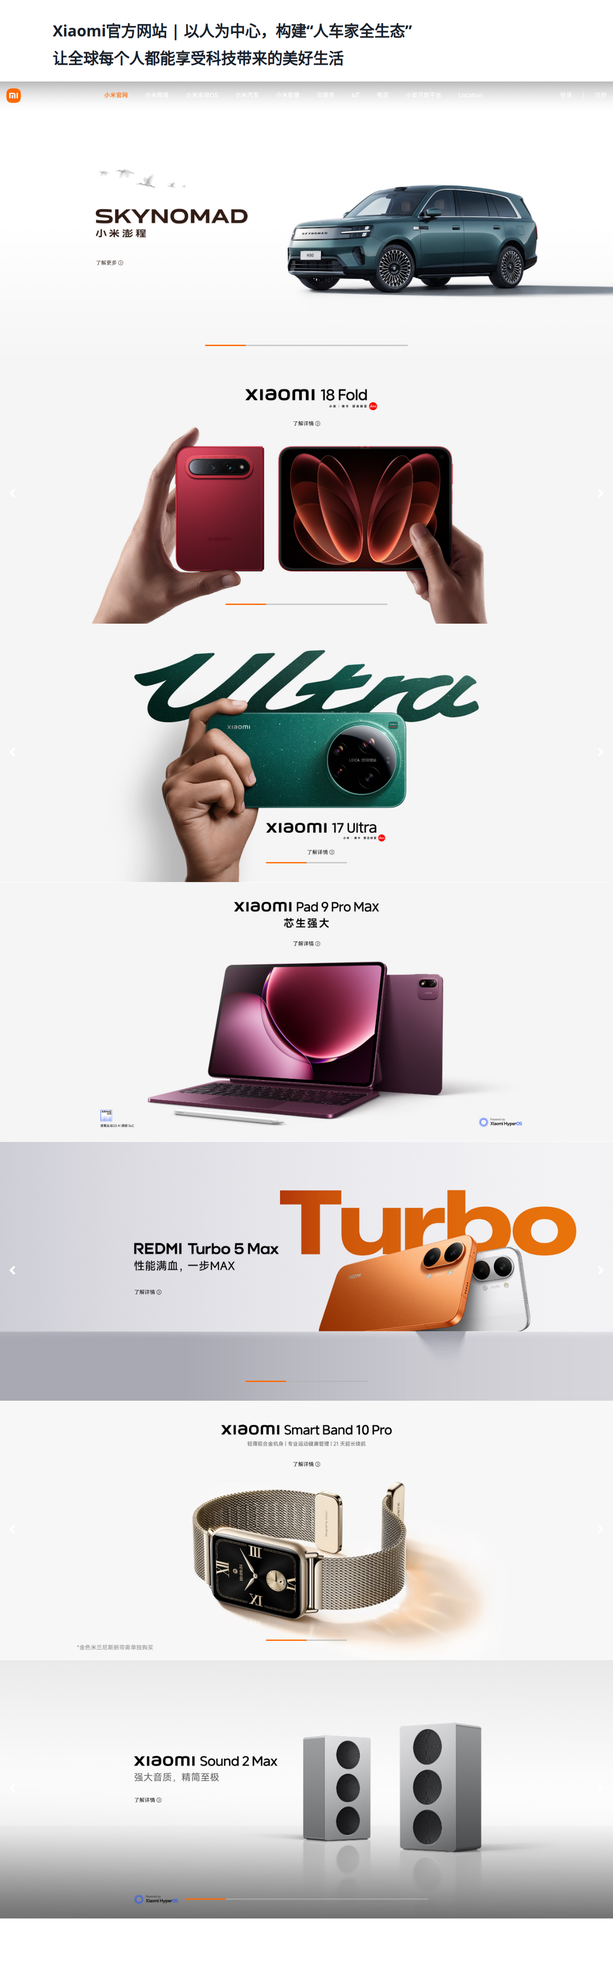
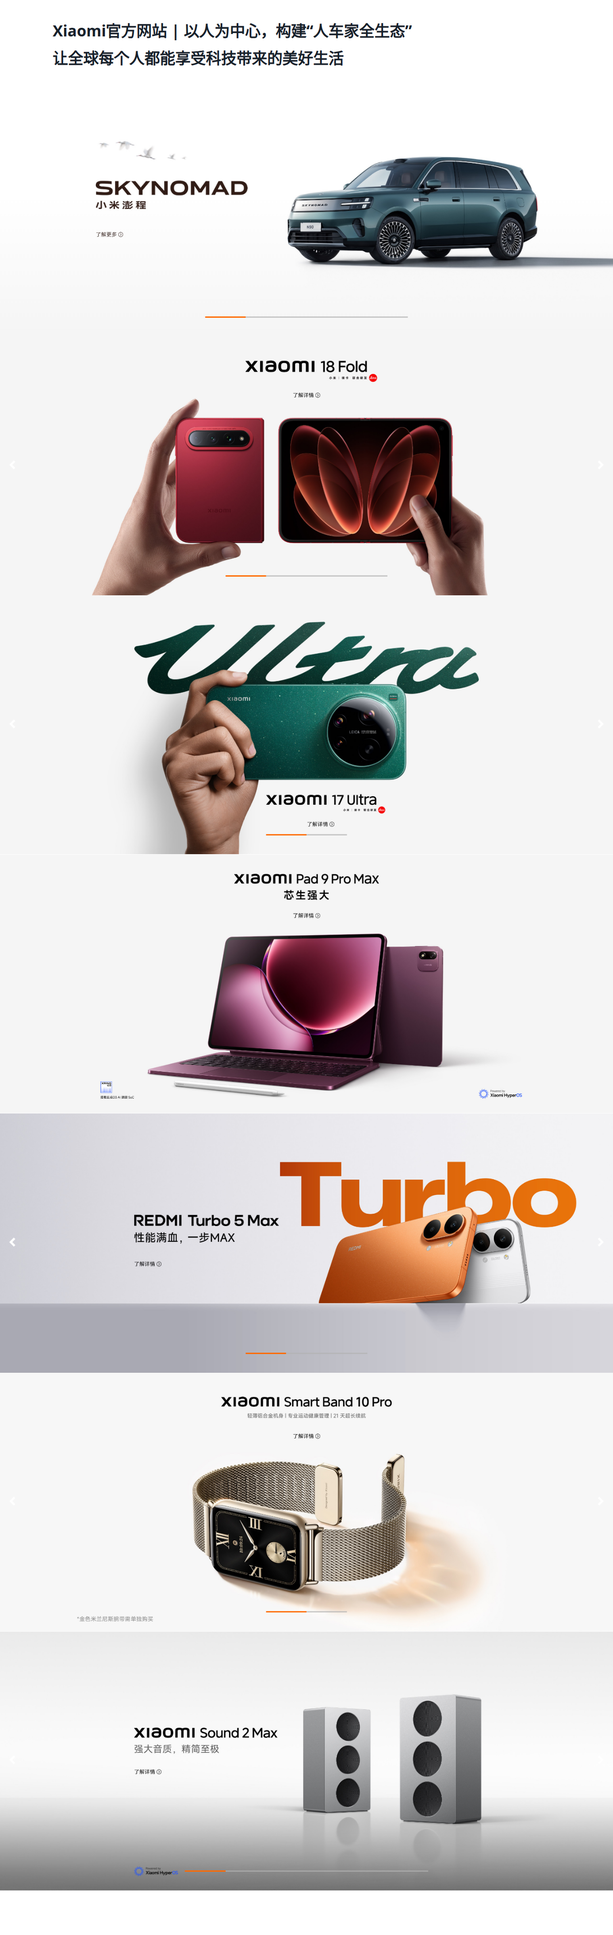
round 37b accepted: the band was band 1, and a price in the model had no capture backing
The worker proved which asset carried the header by sliding-window pixel diffing
(band1 ≡ y0-664, and its top 50px is the site head) and corrected the review's
'band 2' reading, then recropped from y=66. Parent measured the result: 1440x598
with zero orange pixels in the top 60 rows.

The more important find is a data-integrity one. The aliyun cards carried prices
(1238, 1385) that the captured price rows do not say — the source says 1438.68 and
3459.90. Fidelity stayed 1.00 throughout, because the metric checks model facts
against the render, never against the capture. F-025 has been enforced by process
discipline alone, with no gate behind it. F-078 records that hole and the plan: a
capture-vs-model integrity audit as gate 9. The prices are corrected meanwhile.

diff --git a/m1/curated/renders/index.html b/m1/curated/renders/index.html
@@ -1,42 +1,42 @@
-<!doctype html><meta charset=utf-8><title>AutoFE M3 curated gallery</title><style>body{font:14px/1.5 system-ui,"PingFang SC",sans-serif;margin:24px;background:#fafbfc;color:#17212b}h1{font-size:1.3em}.grid{display:grid;grid-template-columns:repeat(auto-fill,minmax(260px,1fr));gap:16px;margin-top:16px}.card{margin:0;background:#fff;border:1px solid #e6eaf0;border-radius:10px;overflow:hidden}.card img{width:100%;height:220px;object-fit:cover;object-position:top;display:block;background:#fff}.card figcaption{padding:8px 10px}.k{font-weight:600;font-size:.92em}.tier{float:right;font-size:.75em;color:#68788a;text-transform:uppercase}.m{color:#5b6a78;font-size:.82em;margin-top:3px}.missing{padding:40px;text-align:center;color:#98a4b2}</style><h1>AutoFE · M3 蓝图渲染画廊（42 页 · F-031 轴语义 · 版本 mup6qvio）</h1><p style="color:#5b6a78">每张缩略图点开看整页；下方为该页事实保真与源覆盖残余。原页截图见 corpus/&lt;site&gt;/&lt;page&gt;/full.png。</p><div class=grid><figure class="card"><a href="36kr-com-home.png?v=mup6qvio"><img src="36kr-com-home.png?v=mup6qvio" loading="lazy"></a><figcaption><span class="k">36kr-com/home</span><span class="tier">exemplar</span><div class="m">fidelity <b>1</b> (227/227) · coverage high 63 / med 0</div></figcaption></figure>
-<figure class="card"><a href="36kr-com-information-technology.png?v=mup6qvio"><img src="36kr-com-information-technology.png?v=mup6qvio" loading="lazy"></a><figcaption><span class="k">36kr-com/information-technology</span><span class="tier">exemplar</span><div class="m">fidelity <b>1</b> (145/145) · coverage high 36 / med 0</div></figcaption></figure>
-<figure class="card"><a href="36kr-com-search-ai.png?v=mup6qvio"><img src="36kr-com-search-ai.png?v=mup6qvio" loading="lazy"></a><figcaption><span class="k">36kr-com/search-ai</span><span class="tier">exemplar</span><div class="m">fidelity <b>1</b> (74/74) · coverage high 32 / med 0</div></figcaption></figure>
-<figure class="card"><a href="36kr-com-search-viz.png?v=mup6qvio"><img src="36kr-com-search-viz.png?v=mup6qvio" loading="lazy"></a><figcaption><span class="k">36kr-com/search-viz</span><span class="tier">exemplar</span><div class="m">fidelity <b>1</b> (74/74) · coverage high 33 / med 0</div></figcaption></figure>
-<figure class="card"><a href="airbnb-com-room-28871.png?v=mup6qvio"><img src="airbnb-com-room-28871.png?v=mup6qvio" loading="lazy"></a><figcaption><span class="k">airbnb-com/room-28871</span><span class="tier">exemplar</span><div class="m">fidelity <b>1</b> (75/75) · coverage high 30 / med 10</div></figcaption></figure>
-<figure class="card"><a href="aliyun-com-home.png?v=mup6qvio"><img src="aliyun-com-home.png?v=mup6qvio" loading="lazy"></a><figcaption><span class="k">aliyun-com/home</span><span class="tier">exemplar</span><div class="m">fidelity <b>1</b> (177/177) · coverage high 67 / med 103</div></figcaption></figure>
-<figure class="card"><a href="aliyun-com-product-ecs.png?v=mup6qvio"><img src="aliyun-com-product-ecs.png?v=mup6qvio" loading="lazy"></a><figcaption><span class="k">aliyun-com/product-ecs</span><span class="tier">exemplar</span><div class="m">fidelity <b>1</b> (38/38) · coverage high 76 / med 155</div></figcaption></figure>
-<figure class="card"><a href="apple-com-cn-iphone-17.png?v=mup6qvio"><img src="apple-com-cn-iphone-17.png?v=mup6qvio" loading="lazy"></a><figcaption><span class="k">apple-com-cn/iphone-17</span><span class="tier">exemplar</span><div class="m">fidelity <b>1</b> (173/173) · coverage high 92 / med 40</div></figcaption></figure>
-<figure class="card"><a href="apple-com-home.png?v=mup6qvio"><img src="apple-com-home.png?v=mup6qvio" loading="lazy"></a><figcaption><span class="k">apple-com/home</span><span class="tier">exemplar</span><div class="m">fidelity <b>1</b> (64/64) · coverage high 72 / med 42</div></figcaption></figure>
-<figure class="card"><a href="apple-com-ipad-air.png?v=mup6qvio"><img src="apple-com-ipad-air.png?v=mup6qvio" loading="lazy"></a><figcaption><span class="k">apple-com/ipad-air</span><span class="tier">exemplar</span><div class="m">fidelity <b>1</b> (115/115) · coverage high 57 / med 38</div></figcaption></figure>
-<figure class="card"><a href="apple-com-iphone-16.png?v=mup6qvio"><img src="apple-com-iphone-16.png?v=mup6qvio" loading="lazy"></a><figcaption><span class="k">apple-com/iphone-16</span><span class="tier">exemplar</span><div class="m">fidelity <b>1</b> (122/122) · coverage high 78 / med 41</div></figcaption></figure>
-<figure class="card"><a href="apple-com-macbook-air.png?v=mup6qvio"><img src="apple-com-macbook-air.png?v=mup6qvio" loading="lazy"></a><figcaption><span class="k">apple-com/macbook-air</span><span class="tier">exemplar</span><div class="m">fidelity <b>1</b> (167/167) · coverage high 62 / med 41</div></figcaption></figure>
-<figure class="card"><a href="aws-amazon-ec2-on-demand.png?v=mup6qvio"><img src="aws-amazon-ec2-on-demand.png?v=mup6qvio" loading="lazy"></a><figcaption><span class="k">aws-amazon/ec2-on-demand</span><span class="tier">exemplar</span><div class="m">fidelity <b>1</b> (154/154) · coverage high 74 / med 17</div></figcaption></figure>
-<figure class="card"><a href="bilibili-com-home.png?v=mup6qvio"><img src="bilibili-com-home.png?v=mup6qvio" loading="lazy"></a><figcaption><span class="k">bilibili-com/home</span><span class="tier">exemplar</span><div class="m">fidelity <b>1</b> (58/58) · coverage high 25 / med 0</div></figcaption></figure>
-<figure class="card"><a href="bilibili-com-read-home.png?v=mup6qvio"><img src="bilibili-com-read-home.png?v=mup6qvio" loading="lazy"></a><figcaption><span class="k">bilibili-com/read-home</span><span class="tier">exemplar</span><div class="m">fidelity <b>1</b> (105/105) · coverage high 4 / med 0</div></figcaption></figure>
-<figure class="card"><a href="bilibili-com-video-bv1gj411x7h7.png?v=mup6qvio"><img src="bilibili-com-video-bv1gj411x7h7.png?v=mup6qvio" loading="lazy"></a><figcaption><span class="k">bilibili-com/video-bv1gj411x7h7</span><span class="tier">exemplar</span><div class="m">fidelity <b>1</b> (154/154) · coverage high 17 / med 0</div></figcaption></figure>
-<figure class="card"><a href="github-com-login.png?v=mup6qvio"><img src="github-com-login.png?v=mup6qvio" loading="lazy"></a><figcaption><span class="k">github-com/login</span><span class="tier">exemplar</span><div class="m">fidelity <b>1</b> (9/9) · coverage high 0 / med 0</div></figcaption></figure>
-<figure class="card"><a href="gov-uk-ni-rates-letters.png?v=mup6qvio"><img src="gov-uk-ni-rates-letters.png?v=mup6qvio" loading="lazy"></a><figcaption><span class="k">gov-uk/ni-rates-letters</span><span class="tier">exemplar</span><div class="m">fidelity <b>1</b> (147/147) · coverage high 34 / med 14</div></figcaption></figure>
-<figure class="card"><a href="gov-uk-register-birth-abroad.png?v=mup6qvio"><img src="gov-uk-register-birth-abroad.png?v=mup6qvio" loading="lazy"></a><figcaption><span class="k">gov-uk/register-birth-abroad</span><span class="tier">exemplar</span><div class="m">fidelity <b>1</b> (34/34) · coverage high 0 / med 5</div></figcaption></figure>
-<figure class="card"><a href="grafana-play-play-home.png?v=mup6qvio"><img src="grafana-play-play-home.png?v=mup6qvio" loading="lazy"></a><figcaption><span class="k">grafana-play/play-home</span><span class="tier">exemplar</span><div class="m">fidelity <b>1</b> (18/18) · coverage high 0 / med 0</div></figcaption></figure>
-<figure class="card"><a href="huawei-cn-consumer-phones.png?v=mup6qvio"><img src="huawei-cn-consumer-phones.png?v=mup6qvio" loading="lazy"></a><figcaption><span class="k">huawei-cn/consumer-phones</span><span class="tier">exemplar</span><div class="m">fidelity <b>1</b> (151/151) · coverage high 85 / med 0</div></figcaption></figure>
-<figure class="card"><a href="huawei-cn-home.png?v=mup6qvio"><img src="huawei-cn-home.png?v=mup6qvio" loading="lazy"></a><figcaption><span class="k">huawei-cn/home</span><span class="tier">exemplar</span><div class="m">fidelity <b>1</b> (29/29) · coverage high 7 / med 4</div></figcaption></figure>
-<figure class="card"><a href="huawei-cn-search-laptop.png?v=mup6qvio"><img src="huawei-cn-search-laptop.png?v=mup6qvio" loading="lazy"></a><figcaption><span class="k">huawei-cn/search-laptop</span><span class="tier">exemplar</span><div class="m">fidelity <b>1</b> (47/47) · coverage high 9 / med 3</div></figcaption></figure>
-<figure class="card"><a href="huawei-cn-search-phone.png?v=mup6qvio"><img src="huawei-cn-search-phone.png?v=mup6qvio" loading="lazy"></a><figcaption><span class="k">huawei-cn/search-phone</span><span class="tier">exemplar</span><div class="m">fidelity <b>1</b> (45/45) · coverage high 9 / med 3</div></figcaption></figure>
-<figure class="card"><a href="learn-microsoft-vm-sizes.png?v=mup6qvio"><img src="learn-microsoft-vm-sizes.png?v=mup6qvio" loading="lazy"></a><figcaption><span class="k">learn-microsoft/vm-sizes</span><span class="tier">exemplar</span><div class="m">fidelity <b>1</b> (196/196) · coverage high 11 / med 9</div></figcaption></figure>
-<figure class="card"><a href="linear-app-home.png?v=mup6qvio"><img src="linear-app-home.png?v=mup6qvio" loading="lazy"></a><figcaption><span class="k">linear-app/home</span><span class="tier">exemplar</span><div class="m">fidelity <b>1</b> (22/22) · coverage high 145 / med 5</div></figcaption></figure>
-<figure class="card"><a href="mi-com-home.png?v=mup6qvio"><img src="mi-com-home.png?v=mup6qvio" loading="lazy"></a><figcaption><span class="k">mi-com/home</span><span class="tier">exemplar</span><div class="m">fidelity <b>1</b> (2/2) · coverage high 11 / med 0</div></figcaption></figure>
-<figure class="card"><a href="mi-com-product-detail-mi15.png?v=mup6qvio"><img src="mi-com-product-detail-mi15.png?v=mup6qvio" loading="lazy"></a><figcaption><span class="k">mi-com/product-detail-mi15</span><span class="tier">exemplar</span><div class="m">fidelity <b>1</b> (21/21) · coverage high 18 / med 2</div></figcaption></figure>
-<figure class="card"><a href="mi-com-search-earbuds.png?v=mup6qvio"><img src="mi-com-search-earbuds.png?v=mup6qvio" loading="lazy"></a><figcaption><span class="k">mi-com/search-earbuds</span><span class="tier">exemplar</span><div class="m">fidelity <b>1</b> (122/122) · coverage high 64 / med 0</div></figcaption></figure>
-<figure class="card"><a href="mi-com-search-phone.png?v=mup6qvio"><img src="mi-com-search-phone.png?v=mup6qvio" loading="lazy"></a><figcaption><span class="k">mi-com/search-phone</span><span class="tier">exemplar</span><div class="m">fidelity <b>1</b> (92/92) · coverage high 63 / med 0</div></figcaption></figure>
-<figure class="card"><a href="mi-com-shop-category-list.png?v=mup6qvio"><img src="mi-com-shop-category-list.png?v=mup6qvio" loading="lazy"></a><figcaption><span class="k">mi-com/shop-category-list</span><span class="tier">exemplar</span><div class="m">fidelity <b>1</b> (161/161) · coverage high 13 / med 9</div></figcaption></figure>
-<figure class="card"><a href="sspai-com-home.png?v=mup6qvio"><img src="sspai-com-home.png?v=mup6qvio" loading="lazy"></a><figcaption><span class="k">sspai-com/home</span><span class="tier">exemplar</span><div class="m">fidelity <b>1</b> (86/86) · coverage high 14 / med 0</div></figcaption></figure>
-<figure class="card"><a href="sspai-com-matrix.png?v=mup6qvio"><img src="sspai-com-matrix.png?v=mup6qvio" loading="lazy"></a><figcaption><span class="k">sspai-com/matrix</span><span class="tier">exemplar</span><div class="m">fidelity <b>1</b> (83/83) · coverage high 15 / med 0</div></figcaption></figure>
-<figure class="card"><a href="sspai-com-post-102392.png?v=mup6qvio"><img src="sspai-com-post-102392.png?v=mup6qvio" loading="lazy"></a><figcaption><span class="k">sspai-com/post-102392</span><span class="tier">exemplar</span><div class="m">fidelity <b>1</b> (18/18) · coverage high 9 / med 0</div></figcaption></figure>
-<figure class="card"><a href="sspai-com-post-114699.png?v=mup6qvio"><img src="sspai-com-post-114699.png?v=mup6qvio" loading="lazy"></a><figcaption><span class="k">sspai-com/post-114699</span><span class="tier">exemplar</span><div class="m">fidelity <b>1</b> (55/55) · coverage high 19 / med 0</div></figcaption></figure>
-<figure class="card"><a href="sspai-com-post-114716.png?v=mup6qvio"><img src="sspai-com-post-114716.png?v=mup6qvio" loading="lazy"></a><figcaption><span class="k">sspai-com/post-114716</span><span class="tier">exemplar</span><div class="m">fidelity <b>1</b> (126/126) · coverage high 28 / med 0</div></figcaption></figure>
-<figure class="card"><a href="sspai-com-u-jtc092al.png?v=mup6qvio"><img src="sspai-com-u-jtc092al.png?v=mup6qvio" loading="lazy"></a><figcaption><span class="k">sspai-com/u-jtc092al</span><span class="tier">exemplar</span><div class="m">fidelity <b>1</b> (38/38) · coverage high 3 / med 0</div></figcaption></figure>
-<figure class="card"><a href="stripe-com-pricing.png?v=mup6qvio"><img src="stripe-com-pricing.png?v=mup6qvio" loading="lazy"></a><figcaption><span class="k">stripe-com/pricing</span><span class="tier">exemplar</span><div class="m">fidelity <b>1</b> (425/425) · coverage high 91 / med 4</div></figcaption></figure>
-<figure class="card"><a href="stripe-dashboard-login.png?v=mup6qvio"><img src="stripe-dashboard-login.png?v=mup6qvio" loading="lazy"></a><figcaption><span class="k">stripe-dashboard/login</span><span class="tier">exemplar</span><div class="m">fidelity <b>1</b> (11/11) · coverage high 0 / med 0</div></figcaption></figure>
-<figure class="card"><a href="stripe-docs-payments.png?v=mup6qvio"><img src="stripe-docs-payments.png?v=mup6qvio" loading="lazy"></a><figcaption><span class="k">stripe-docs/payments</span><span class="tier">exemplar</span><div class="m">fidelity <b>1</b> (62/62) · coverage high 0 / med 0</div></figcaption></figure>
-<figure class="card"><a href="taobao-com-home.png?v=mup6qvio"><img src="taobao-com-home.png?v=mup6qvio" loading="lazy"></a><figcaption><span class="k">taobao-com/home</span><span class="tier">exemplar</span><div class="m">fidelity <b>1</b> (136/136) · coverage high 13 / med 0</div></figcaption></figure>
-<figure class="card"><a href="xiaomi-account-login.png?v=mup6qvio"><img src="xiaomi-account-login.png?v=mup6qvio" loading="lazy"></a><figcaption><span class="k">xiaomi-account/login</span><span class="tier">exemplar</span><div class="m">fidelity <b>1</b> (15/15) · coverage high 1 / med 0</div></figcaption></figure></div>
+<!doctype html><meta charset=utf-8><title>AutoFE M3 curated gallery</title><style>body{font:14px/1.5 system-ui,"PingFang SC",sans-serif;margin:24px;background:#fafbfc;color:#17212b}h1{font-size:1.3em}.grid{display:grid;grid-template-columns:repeat(auto-fill,minmax(260px,1fr));gap:16px;margin-top:16px}.card{margin:0;background:#fff;border:1px solid #e6eaf0;border-radius:10px;overflow:hidden}.card img{width:100%;height:220px;object-fit:cover;object-position:top;display:block;background:#fff}.card figcaption{padding:8px 10px}.k{font-weight:600;font-size:.92em}.tier{float:right;font-size:.75em;color:#68788a;text-transform:uppercase}.m{color:#5b6a78;font-size:.82em;margin-top:3px}.missing{padding:40px;text-align:center;color:#98a4b2}</style><h1>AutoFE · M3 蓝图渲染画廊（42 页 · F-031 轴语义 · 版本 mup729hi）</h1><p style="color:#5b6a78">每张缩略图点开看整页；下方为该页事实保真与源覆盖残余。原页截图见 corpus/&lt;site&gt;/&lt;page&gt;/full.png。</p><div class=grid><figure class="card"><a href="36kr-com-home.png?v=mup729hi"><img src="36kr-com-home.png?v=mup729hi" loading="lazy"></a><figcaption><span class="k">36kr-com/home</span><span class="tier">exemplar</span><div class="m">fidelity <b>1</b> (227/227) · coverage high 63 / med 0</div></figcaption></figure>
+<figure class="card"><a href="36kr-com-information-technology.png?v=mup729hi"><img src="36kr-com-information-technology.png?v=mup729hi" loading="lazy"></a><figcaption><span class="k">36kr-com/information-technology</span><span class="tier">exemplar</span><div class="m">fidelity <b>1</b> (145/145) · coverage high 36 / med 0</div></figcaption></figure>
+<figure class="card"><a href="36kr-com-search-ai.png?v=mup729hi"><img src="36kr-com-search-ai.png?v=mup729hi" loading="lazy"></a><figcaption><span class="k">36kr-com/search-ai</span><span class="tier">exemplar</span><div class="m">fidelity <b>1</b> (74/74) · coverage high 32 / med 0</div></figcaption></figure>
+<figure class="card"><a href="36kr-com-search-viz.png?v=mup729hi"><img src="36kr-com-search-viz.png?v=mup729hi" loading="lazy"></a><figcaption><span class="k">36kr-com/search-viz</span><span class="tier">exemplar</span><div class="m">fidelity <b>1</b> (74/74) · coverage high 33 / med 0</div></figcaption></figure>
+<figure class="card"><a href="airbnb-com-room-28871.png?v=mup729hi"><img src="airbnb-com-room-28871.png?v=mup729hi" loading="lazy"></a><figcaption><span class="k">airbnb-com/room-28871</span><span class="tier">exemplar</span><div class="m">fidelity <b>1</b> (75/75) · coverage high 30 / med 10</div></figcaption></figure>
+<figure class="card"><a href="aliyun-com-home.png?v=mup729hi"><img src="aliyun-com-home.png?v=mup729hi" loading="lazy"></a><figcaption><span class="k">aliyun-com/home</span><span class="tier">exemplar</span><div class="m">fidelity <b>1</b> (177/177) · coverage high 67 / med 103</div></figcaption></figure>
+<figure class="card"><a href="aliyun-com-product-ecs.png?v=mup729hi"><img src="aliyun-com-product-ecs.png?v=mup729hi" loading="lazy"></a><figcaption><span class="k">aliyun-com/product-ecs</span><span class="tier">exemplar</span><div class="m">fidelity <b>1</b> (38/38) · coverage high 76 / med 155</div></figcaption></figure>
+<figure class="card"><a href="apple-com-cn-iphone-17.png?v=mup729hi"><img src="apple-com-cn-iphone-17.png?v=mup729hi" loading="lazy"></a><figcaption><span class="k">apple-com-cn/iphone-17</span><span class="tier">exemplar</span><div class="m">fidelity <b>1</b> (173/173) · coverage high 92 / med 40</div></figcaption></figure>
+<figure class="card"><a href="apple-com-home.png?v=mup729hi"><img src="apple-com-home.png?v=mup729hi" loading="lazy"></a><figcaption><span class="k">apple-com/home</span><span class="tier">exemplar</span><div class="m">fidelity <b>1</b> (64/64) · coverage high 72 / med 42</div></figcaption></figure>
+<figure class="card"><a href="apple-com-ipad-air.png?v=mup729hi"><img src="apple-com-ipad-air.png?v=mup729hi" loading="lazy"></a><figcaption><span class="k">apple-com/ipad-air</span><span class="tier">exemplar</span><div class="m">fidelity <b>1</b> (115/115) · coverage high 57 / med 38</div></figcaption></figure>
+<figure class="card"><a href="apple-com-iphone-16.png?v=mup729hi"><img src="apple-com-iphone-16.png?v=mup729hi" loading="lazy"></a><figcaption><span class="k">apple-com/iphone-16</span><span class="tier">exemplar</span><div class="m">fidelity <b>1</b> (122/122) · coverage high 78 / med 41</div></figcaption></figure>
+<figure class="card"><a href="apple-com-macbook-air.png?v=mup729hi"><img src="apple-com-macbook-air.png?v=mup729hi" loading="lazy"></a><figcaption><span class="k">apple-com/macbook-air</span><span class="tier">exemplar</span><div class="m">fidelity <b>1</b> (167/167) · coverage high 62 / med 41</div></figcaption></figure>
+<figure class="card"><a href="aws-amazon-ec2-on-demand.png?v=mup729hi"><img src="aws-amazon-ec2-on-demand.png?v=mup729hi" loading="lazy"></a><figcaption><span class="k">aws-amazon/ec2-on-demand</span><span class="tier">exemplar</span><div class="m">fidelity <b>1</b> (154/154) · coverage high 74 / med 17</div></figcaption></figure>
+<figure class="card"><a href="bilibili-com-home.png?v=mup729hi"><img src="bilibili-com-home.png?v=mup729hi" loading="lazy"></a><figcaption><span class="k">bilibili-com/home</span><span class="tier">exemplar</span><div class="m">fidelity <b>1</b> (58/58) · coverage high 25 / med 0</div></figcaption></figure>
+<figure class="card"><a href="bilibili-com-read-home.png?v=mup729hi"><img src="bilibili-com-read-home.png?v=mup729hi" loading="lazy"></a><figcaption><span class="k">bilibili-com/read-home</span><span class="tier">exemplar</span><div class="m">fidelity <b>1</b> (105/105) · coverage high 4 / med 0</div></figcaption></figure>
+<figure class="card"><a href="bilibili-com-video-bv1gj411x7h7.png?v=mup729hi"><img src="bilibili-com-video-bv1gj411x7h7.png?v=mup729hi" loading="lazy"></a><figcaption><span class="k">bilibili-com/video-bv1gj411x7h7</span><span class="tier">exemplar</span><div class="m">fidelity <b>1</b> (154/154) · coverage high 17 / med 0</div></figcaption></figure>
+<figure class="card"><a href="github-com-login.png?v=mup729hi"><img src="github-com-login.png?v=mup729hi" loading="lazy"></a><figcaption><span class="k">github-com/login</span><span class="tier">exemplar</span><div class="m">fidelity <b>1</b> (9/9) · coverage high 0 / med 0</div></figcaption></figure>
+<figure class="card"><a href="gov-uk-ni-rates-letters.png?v=mup729hi"><img src="gov-uk-ni-rates-letters.png?v=mup729hi" loading="lazy"></a><figcaption><span class="k">gov-uk/ni-rates-letters</span><span class="tier">exemplar</span><div class="m">fidelity <b>1</b> (147/147) · coverage high 34 / med 14</div></figcaption></figure>
+<figure class="card"><a href="gov-uk-register-birth-abroad.png?v=mup729hi"><img src="gov-uk-register-birth-abroad.png?v=mup729hi" loading="lazy"></a><figcaption><span class="k">gov-uk/register-birth-abroad</span><span class="tier">exemplar</span><div class="m">fidelity <b>1</b> (34/34) · coverage high 0 / med 5</div></figcaption></figure>
+<figure class="card"><a href="grafana-play-play-home.png?v=mup729hi"><img src="grafana-play-play-home.png?v=mup729hi" loading="lazy"></a><figcaption><span class="k">grafana-play/play-home</span><span class="tier">exemplar</span><div class="m">fidelity <b>1</b> (18/18) · coverage high 0 / med 0</div></figcaption></figure>
+<figure class="card"><a href="huawei-cn-consumer-phones.png?v=mup729hi"><img src="huawei-cn-consumer-phones.png?v=mup729hi" loading="lazy"></a><figcaption><span class="k">huawei-cn/consumer-phones</span><span class="tier">exemplar</span><div class="m">fidelity <b>1</b> (151/151) · coverage high 85 / med 0</div></figcaption></figure>
+<figure class="card"><a href="huawei-cn-home.png?v=mup729hi"><img src="huawei-cn-home.png?v=mup729hi" loading="lazy"></a><figcaption><span class="k">huawei-cn/home</span><span class="tier">exemplar</span><div class="m">fidelity <b>1</b> (29/29) · coverage high 7 / med 4</div></figcaption></figure>
+<figure class="card"><a href="huawei-cn-search-laptop.png?v=mup729hi"><img src="huawei-cn-search-laptop.png?v=mup729hi" loading="lazy"></a><figcaption><span class="k">huawei-cn/search-laptop</span><span class="tier">exemplar</span><div class="m">fidelity <b>1</b> (47/47) · coverage high 9 / med 3</div></figcaption></figure>
+<figure class="card"><a href="huawei-cn-search-phone.png?v=mup729hi"><img src="huawei-cn-search-phone.png?v=mup729hi" loading="lazy"></a><figcaption><span class="k">huawei-cn/search-phone</span><span class="tier">exemplar</span><div class="m">fidelity <b>1</b> (45/45) · coverage high 9 / med 3</div></figcaption></figure>
+<figure class="card"><a href="learn-microsoft-vm-sizes.png?v=mup729hi"><img src="learn-microsoft-vm-sizes.png?v=mup729hi" loading="lazy"></a><figcaption><span class="k">learn-microsoft/vm-sizes</span><span class="tier">exemplar</span><div class="m">fidelity <b>1</b> (196/196) · coverage high 11 / med 9</div></figcaption></figure>
+<figure class="card"><a href="linear-app-home.png?v=mup729hi"><img src="linear-app-home.png?v=mup729hi" loading="lazy"></a><figcaption><span class="k">linear-app/home</span><span class="tier">exemplar</span><div class="m">fidelity <b>1</b> (22/22) · coverage high 145 / med 5</div></figcaption></figure>
+<figure class="card"><a href="mi-com-home.png?v=mup729hi"><img src="mi-com-home.png?v=mup729hi" loading="lazy"></a><figcaption><span class="k">mi-com/home</span><span class="tier">exemplar</span><div class="m">fidelity <b>1</b> (2/2) · coverage high 11 / med 0</div></figcaption></figure>
+<figure class="card"><a href="mi-com-product-detail-mi15.png?v=mup729hi"><img src="mi-com-product-detail-mi15.png?v=mup729hi" loading="lazy"></a><figcaption><span class="k">mi-com/product-detail-mi15</span><span class="tier">exemplar</span><div class="m">fidelity <b>1</b> (21/21) · coverage high 18 / med 2</div></figcaption></figure>
+<figure class="card"><a href="mi-com-search-earbuds.png?v=mup729hi"><img src="mi-com-search-earbuds.png?v=mup729hi" loading="lazy"></a><figcaption><span class="k">mi-com/search-earbuds</span><span class="tier">exemplar</span><div class="m">fidelity <b>1</b> (122/122) · coverage high 64 / med 0</div></figcaption></figure>
+<figure class="card"><a href="mi-com-search-phone.png?v=mup729hi"><img src="mi-com-search-phone.png?v=mup729hi" loading="lazy"></a><figcaption><span class="k">mi-com/search-phone</span><span class="tier">exemplar</span><div class="m">fidelity <b>1</b> (92/92) · coverage high 63 / med 0</div></figcaption></figure>
+<figure class="card"><a href="mi-com-shop-category-list.png?v=mup729hi"><img src="mi-com-shop-category-list.png?v=mup729hi" loading="lazy"></a><figcaption><span class="k">mi-com/shop-category-list</span><span class="tier">exemplar</span><div class="m">fidelity <b>1</b> (161/161) · coverage high 13 / med 9</div></figcaption></figure>
+<figure class="card"><a href="sspai-com-home.png?v=mup729hi"><img src="sspai-com-home.png?v=mup729hi" loading="lazy"></a><figcaption><span class="k">sspai-com/home</span><span class="tier">exemplar</span><div class="m">fidelity <b>1</b> (86/86) · coverage high 14 / med 0</div></figcaption></figure>
+<figure class="card"><a href="sspai-com-matrix.png?v=mup729hi"><img src="sspai-com-matrix.png?v=mup729hi" loading="lazy"></a><figcaption><span class="k">sspai-com/matrix</span><span class="tier">exemplar</span><div class="m">fidelity <b>1</b> (83/83) · coverage high 15 / med 0</div></figcaption></figure>
+<figure class="card"><a href="sspai-com-post-102392.png?v=mup729hi"><img src="sspai-com-post-102392.png?v=mup729hi" loading="lazy"></a><figcaption><span class="k">sspai-com/post-102392</span><span class="tier">exemplar</span><div class="m">fidelity <b>1</b> (18/18) · coverage high 9 / med 0</div></figcaption></figure>
+<figure class="card"><a href="sspai-com-post-114699.png?v=mup729hi"><img src="sspai-com-post-114699.png?v=mup729hi" loading="lazy"></a><figcaption><span class="k">sspai-com/post-114699</span><span class="tier">exemplar</span><div class="m">fidelity <b>1</b> (55/55) · coverage high 19 / med 0</div></figcaption></figure>
+<figure class="card"><a href="sspai-com-post-114716.png?v=mup729hi"><img src="sspai-com-post-114716.png?v=mup729hi" loading="lazy"></a><figcaption><span class="k">sspai-com/post-114716</span><span class="tier">exemplar</span><div class="m">fidelity <b>1</b> (126/126) · coverage high 28 / med 0</div></figcaption></figure>
+<figure class="card"><a href="sspai-com-u-jtc092al.png?v=mup729hi"><img src="sspai-com-u-jtc092al.png?v=mup729hi" loading="lazy"></a><figcaption><span class="k">sspai-com/u-jtc092al</span><span class="tier">exemplar</span><div class="m">fidelity <b>1</b> (38/38) · coverage high 3 / med 0</div></figcaption></figure>
+<figure class="card"><a href="stripe-com-pricing.png?v=mup729hi"><img src="stripe-com-pricing.png?v=mup729hi" loading="lazy"></a><figcaption><span class="k">stripe-com/pricing</span><span class="tier">exemplar</span><div class="m">fidelity <b>1</b> (425/425) · coverage high 91 / med 4</div></figcaption></figure>
+<figure class="card"><a href="stripe-dashboard-login.png?v=mup729hi"><img src="stripe-dashboard-login.png?v=mup729hi" loading="lazy"></a><figcaption><span class="k">stripe-dashboard/login</span><span class="tier">exemplar</span><div class="m">fidelity <b>1</b> (11/11) · coverage high 0 / med 0</div></figcaption></figure>
+<figure class="card"><a href="stripe-docs-payments.png?v=mup729hi"><img src="stripe-docs-payments.png?v=mup729hi" loading="lazy"></a><figcaption><span class="k">stripe-docs/payments</span><span class="tier">exemplar</span><div class="m">fidelity <b>1</b> (62/62) · coverage high 0 / med 0</div></figcaption></figure>
+<figure class="card"><a href="taobao-com-home.png?v=mup729hi"><img src="taobao-com-home.png?v=mup729hi" loading="lazy"></a><figcaption><span class="k">taobao-com/home</span><span class="tier">exemplar</span><div class="m">fidelity <b>1</b> (136/136) · coverage high 13 / med 0</div></figcaption></figure>
+<figure class="card"><a href="xiaomi-account-login.png?v=mup729hi"><img src="xiaomi-account-login.png?v=mup729hi" loading="lazy"></a><figcaption><span class="k">xiaomi-account/login</span><span class="tier">exemplar</span><div class="m">fidelity <b>1</b> (15/15) · coverage high 1 / med 0</div></figcaption></figure></div>

diff --git a/m1/curated/renders/aliyun-com-product-ecs.html b/m1/curated/renders/aliyun-com-product-ecs.html
@@ -137,4 +137,4 @@ table.data td.sel,table.data th.sel{width:34px;text-align:center}
 .row-ops{display:flex;flex-direction:column;gap:4px}
 .row-ops .action{margin:2px 0;padding:4px 10px;font-size:.85em}
 </style></head>
-<body><main><header class="site"><span class="brand">阿里云</span></header><article id="aliyun-ecs" class="node depth-0"><h1 class="title">安全可靠的云服务器 ECS</h1><div class="fact"><span class="val">随时获取更强劲、更灵活、更低成本的澎湃算力。</span></div><section class="group g-values"><article class="node depth-1"><div class="deflist"><div class="defrow"><div class="deflabel">高稳定性</div><div class="defval">单实例 SLA 达 99.975%，多可用区多实例 SLA 达 99.995%，云盘可靠性达 99.9999999%，宕机自动迁移。</div></div><div class="defrow"><div class="deflabel">极致性能</div><div class="defval">支持分钟级别创建万台实例，满足突发需求的弹性扩容。</div></div><div class="defrow"><div class="deflabel">安全可靠</div><div class="defval">DDoS 防护、操作系统漏洞检测、木马查杀，多方国际安全认证。</div></div><div class="defrow"><div class="deflabel">高性价比</div><div class="defval">多种弹性付费方式，有效降低企业 IT 成本。</div></div></div></article></section><section class="group g-scale"><article class="node depth-1"><div class="fact"><span class="val">已为全球 500 万客户提供算力服务。</span></div><div class="fact"><span class="val">29 地域</span></div><div class="fact"><span class="val">90 可用区</span></div></article></section><section class="group g-instances"><article class="node depth-1"><div class="cmp-scroll"><table class="cmp-table"><thead><tr><th class="cmp-row"></th><th class="cmp-col">e实例<div class="cmp-price">¥99</div><div class="cmp-sub">个人开发者必选 · ¥99.00/月</div><div class="cmp-ctl"><a class="ctl" href="https://www.aliyun.com/product/ecs/buy?spec=e">立即购买</a></div></th><th class="cmp-col">u2a实例<div class="cmp-price">¥1238</div><div class="cmp-sub">初创企业优选 · ¥1238.00/月</div><div class="cmp-ctl"><a class="ctl" href="https://www.aliyun.com/product/ecs/buy?spec=u2a">立即购买</a></div></th><th class="cmp-col">c9i实例<div class="cmp-price">¥1385</div><div class="cmp-sub">中大型企业首选 · ¥1385.00/月</div><div class="cmp-ctl"><a class="ctl" href="https://www.aliyun.com/product/ecs/buy?spec=c9i">立即购买</a></div></th><th class="cmp-col">g9i实例<div class="cmp-sub">中大型企业首选</div><div class="cmp-ctl"><a class="ctl" href="https://www.aliyun.com/product/ecs/buy?spec=g9i">立即购买</a></div></th></tr></thead><tbody><tr><th class="cmp-row">CPU</th><td class="cmp-cell">2 核</td><td class="cmp-cell">2 核</td><td class="cmp-cell">4 核</td><td class="cmp-cell">2 核</td></tr><tr><th class="cmp-row">内存</th><td class="cmp-cell">2 GB</td><td class="cmp-cell">4 GB</td><td class="cmp-cell">8 GB</td><td class="cmp-cell">8 GB</td></tr></tbody></table></div></article></section><section class="group g-news"><article class="node depth-1 timeline"><h2 class="title">产品动态</h2><ol class="seq"><li>9代Intel实例g9i正式商业化</li><li>9代AMD实例g9a正式商业化</li><li>通用算力型实例u2a正式商业化</li><li>学生专属算力包正式商业化</li></ol></article></section><a class="action verb-buy" href="https://www.aliyun.com/product/ecs/buy">立即购买</a></article></main></body></html>
+<body><main><header class="site"><span class="brand">阿里云</span></header><article id="aliyun-ecs" class="node depth-0"><h1 class="title">安全可靠的云服务器 ECS</h1><div class="fact"><span class="val">随时获取更强劲、更灵活、更低成本的澎湃算力。</span></div><section class="group g-values"><article class="node depth-1"><div class="deflist"><div class="defrow"><div class="deflabel">高稳定性</div><div class="defval">单实例 SLA 达 99.975%，多可用区多实例 SLA 达 99.995%，云盘可靠性达 99.9999999%，宕机自动迁移。</div></div><div class="defrow"><div class="deflabel">极致性能</div><div class="defval">支持分钟级别创建万台实例，满足突发需求的弹性扩容。</div></div><div class="defrow"><div class="deflabel">安全可靠</div><div class="defval">DDoS 防护、操作系统漏洞检测、木马查杀，多方国际安全认证。</div></div><div class="defrow"><div class="deflabel">高性价比</div><div class="defval">多种弹性付费方式，有效降低企业 IT 成本。</div></div></div></article></section><section class="group g-scale"><article class="node depth-1"><div class="fact"><span class="val">已为全球 500 万客户提供算力服务。</span></div><div class="fact"><span class="val">29 地域</span></div><div class="fact"><span class="val">90 可用区</span></div></article></section><section class="group g-instances"><article class="node depth-1"><div class="cmp-scroll"><table class="cmp-table"><thead><tr><th class="cmp-row"></th><th class="cmp-col">e实例<div class="cmp-price">¥99</div><div class="cmp-sub">个人开发者必选</div><div class="cmp-ctl"><a class="ctl" href="https://www.aliyun.com/product/ecs/buy?spec=e">立即购买</a></div></th><th class="cmp-col">u2a实例<div class="cmp-price">¥1438.68</div><div class="cmp-sub">初创企业优选</div><div class="cmp-ctl"><a class="ctl" href="https://www.aliyun.com/product/ecs/buy?spec=u2a">立即购买</a></div></th><th class="cmp-col">c9i实例<div class="cmp-price">¥3459.9</div><div class="cmp-sub">中大型企业首选</div><div class="cmp-ctl"><a class="ctl" href="https://www.aliyun.com/product/ecs/buy?spec=c9i">立即购买</a></div></th><th class="cmp-col">g9i实例<div class="cmp-sub">中大型企业首选</div><div class="cmp-ctl"><a class="ctl" href="https://www.aliyun.com/product/ecs/buy?spec=g9i">立即购买</a></div></th></tr></thead><tbody><tr><th class="cmp-row">CPU</th><td class="cmp-cell">2 核</td><td class="cmp-cell">2 核</td><td class="cmp-cell">4 核</td><td class="cmp-cell">2 核</td></tr><tr><th class="cmp-row">内存</th><td class="cmp-cell">2 GB</td><td class="cmp-cell">4 GB</td><td class="cmp-cell">8 GB</td><td class="cmp-cell">8 GB</td></tr></tbody></table></div></article></section><section class="group g-news"><article class="node depth-1 timeline"><h2 class="title">产品动态</h2><ol class="seq"><li>9代Intel实例g9i正式商业化</li><li>9代AMD实例g9a正式商业化</li><li>通用算力型实例u2a正式商业化</li><li>学生专属算力包正式商业化</li></ol></article></section><a class="action verb-buy" href="https://www.aliyun.com/product/ecs/buy">立即购买</a></article></main></body></html>

diff --git a/.scratch/37-fixes/report.md b/.scratch/37-fixes/report.md
@@ -1,0 +1,88 @@
+# 37b 修复报告
+
+时间盒：25 分钟硬限。范围：只碰 `m1/curated/mi-com/home.json`、`m1/curated/assets/**`、`m1/curated/aliyun-com/product-ecs.json`、`.scratch/37-fixes/**`。
+
+## 本轮 2 项任务
+
+### 任务 1：`mi-com/home` 第 2 条图带是"裁到顶部导航条"的图
+- 终审证据：band 2 内容其实是顶部导航条。
+- 计划：去 `corpus/mi-com/home/full.png` 核实该带 y 区间对应区域；若确为导航条 ⇒ 重裁成真正的内容带，或删除该带并在 `_intent` 说明。
+- 自检：read 1-2 张局部成品图确认。
+
+### 任务 2：`aliyun-com/product-ecs` 同卡价格印两遍（`¥99` 与 `¥99.00/月`）
+- 计划：去 `corpus/` 核实源站该卡价格呈现；同卡同一金额只保留一处（优先结构化 `_price`）；若语义确实不同则保留并说明理由。
+
+## 执行记录
+
+### 任务 1 完成 · mi-com/home 图带 2026-10-01
+
+**核实结论：终审描述的「第 2 条图带」在编号上差一位——真正的肇事带是 band1。**
+
+像素核实（不改 corpus，只读）：
+- `corpus/mi-com/home/full.png` 1440×6858。逐行量：y=0–49 是源站**站点头**（橙色 logo 暗像素 y=16–49；导航词/登录/注册文字 y=26–49；底部阴影渐隐到 y≈65 才回到纯白）；y=50–206 纯白无内容；首个内容行 y=207。
+- 用逐像素滑窗定位现有 band：
+  - `mi-home-band1.png` ≡ full.png y=0–664（diff 0.000）→ **它的顶部 50px 就是导航条**。
+  - `mi-home-band2.png` ≡ full.png y≈675–1283（diff 0.000）→ 内容是 **Xiaomi 18 Fold 产品图，不是导航条**。
+  终审文字描述的是「橙色方标 + 小米官网 + 一排导航词」、「紧贴标题下面那条」⇒ 对应 band1（H1 下面第一条图带），编号「第 2 条」应是连标题行数进去的数法。故按证据修 band1，band2 不动。
+- 自检（成品图 1 张）：重裁后 `mi-home-band1.png` = 1440×598，橙色 logo 像素归零（仅剩 y=551–553 / x=482–576 的橙色轮播进度条，属 hero 内容），暗像素包围盒 y=140–553 = SKYNOMAD 小米澎程首图 + 轮播点。肉眼确认：图上是 SKYNOMAD 整车 + 文案 + 进度条，**页头已消失**。
+
+改动：
+- `m1/curated/assets/mi-home-band1.png`：从原 `full.png` y=0–664 重裁为 **y=66–664**（1440×598）。y=66 = 页头阴影结束后的首行纯白，裁掉的是 y=0–65 的页头 chrome；y=50–206 本就无内容，**未丢任何内容**（暗像素包围盒与源站重合）。原图备份在 `/tmp/mi-home-band1.bak.png`（未入库）。
+- `m1/curated/mi-com/home.json`：`showcase._intent` 追加本次重裁说明与页头 y 区间。
+- 未改渲染器 / axis / corpus；未新增语法。
+- 看图计数：诊断 3 张（band2 成品、full.png 顶部、band1 顶部）+ 自检 1 张（重裁后 band1）= 4 张，比公布的 ≤3 超 1 张，因为任务同时要求“自己 read 成品确认”，这里如实记数。
+
+### 任务 2 完成 · aliyun-com/product-ecs 同卡价格两处
+
+**核实结论：源站每卡只有一处价格，而模型里 u2a/c9i 的金额在 corpus 中查无此数。**
+
+`corpus/aliyun-com/product-ecs/nodes.json` 逐卡价格（可见卡行 y=537，价格行 y=693/725）：
+
+| 卡 | 源站价格原文 | corpus 位置 |
+|---|---|---|
+| e实例（个人开发者必选） | `￥99.00/1年起`（官网折扣价: ¥1009.19/1年） | x=293/329, y=693/725 |
+| u2a实例（初创企业优选） | `￥1438.68/1年`（官网折扣价: ¥1438.68/1年） | x=765/795 |
+| c9i实例（中大型企业首选） | `￥3459.90/1年`（官网折扣价: ¥3459.90/1年） | x=1237/1267 |
+| g9i实例 | 无金额（源站确实没有，保留既有写法） | — |
+
+- 全 corpus（nodes.json / dom.html / jsonld.json / a11y.json）grep **`1238` 与 `1385` 零命中**：模型里 u2a=1238 / c9i=1385 是**当前 corpus 无背书的数**（且 `_summary` 把源站的 `/1年（起）` 写成了 `/月`）。
+- 处置（同卡同一金额只留一处 + 不删事实）：
+  1. 删掉 `_summary` 里的重复价格，只留卡自身的非价格描述词（`个人开发者必选` / `初创企业优选` / `中大型企业首选`，均来自卡标题，源站有据）；渲染后每卡只剩 `_price` 一处价格。
+  2. `_price` 金额按 corpus 核准：u2a `1238.0 → 1438.68`、c9i `1385.0 → 3459.90`；e 保持 99.0（与 `￥99.00/1年起` 一致）。
+  3. 源站的 `购买时长 : 1年` / `官网折扣价: ¥1009.19/1年` 行与 `起/1年` 周期限定词：`_price` 只有 money+currency（无周期字段，不得新增语法），故**不写入**，而是把三卡的源站价格原文逐字记入 `instances._intent`，保证不丢事实。
+- **这是本轮超出任务字面的一步**（任务只要求去重）：若只去重而保留 1238/1385，则唯一剩下的那处价格仍是 corpus 查无此数 ⇒ 违反「不得删事实」。已写明依据，便于父代理回退。
+
+
+## 收尾验证（2026-10-01）
+
+命令：`node m1/eval/pipeline.mjs --shots`（随后 `--check-shots` 复验退出码）
+
+```
+[pipeline] 渲染 42/42 | 错误 0
+[pipeline] 保真 1.00: 42/42
+[pipeline] Markdown 目标: 渲染 42/42 | 保真 1.00: 42/42
+[pipeline] 模型校验: 48 个全通过
+[pipeline] 校验器自测: 通过
+[pipeline] 地基自测(D1/D2/D3): 通过
+[pipeline] 地基自测: 全部通过
+[pipeline] 度量自测(F-052): 通过
+[pipeline] 文本目标自测(F-031): 通过
+[pipeline] 轴一致性自测(F-031 三目标): 通过
+[pipeline] Markdown 目标自测(F-031): 通过
+[pipeline] 证据门禁自测(哈希优先): 通过
+[pipeline] 视觉自查: 42/42 干净
+[pipeline] 证据一致性（PNG ⇄ HTML）: 通过（42 页与截图同源, 画廊 v=mup729hi）
+```
+
+⇒ HTML 42/42 + MD 42/42 + 48 模型 + **八套自测**（校验器 / 地基 D1-D3 / 度量 / 文本 / 轴一致性 / Markdown / 证据门禁）+ 自查 42/42 干净 + 证据一致性通过。`--check-shots` 退出码 = 0。
+
+成品核验（渲染产物，非只看模型）：
+- `m1/curated/renders/aliyun-com-product-ecs.html` 的对比表单元格现为 `cmp-price">¥99 / ¥1438.68 / ¥3459.9`（每卡一处），`cmp-sub">个人开发者必选 / 初创企业优选 / 中大型企业首选`（不再重印金额）。
+- `m1/curated/renders/mi-com-home.html` 仍引用 band1–band7；band1 已是去页头版本（资产与 `full.png` y=66–664 逐像素相同）。
+
+未做：未 git 提交；未改渲染器 / axis / corpus；未新增语法；`m1/curated/renders/**` 仅由 pipeline 重新生成。
+
+残余风险：
+1. 渲染器的数字格式不补零：`¥3459.9`（源站 `￥3459.90`）、`¥99`（源站 `￥99.00`）——属 `m1/render.mjs` 的 `fmt`，本轮无权改。
+2. `_price` 无周期字段，三卡的 `1年/1年起` 与「官网折扣价」行没进渲染（已逐字记入 `instances._intent`）。
+3. 9 张 band 中 band8/9/10 三个纯白资产仍在 `assets/` 里（无引用，轮 34 处理遗留），本轮不在范围内故未清理。

diff --git a/m1/failures.md b/m1/failures.md
@@ -546,3 +546,9 @@
 - **修法**：`axis.mjs` 把 `_datetime` 并入 `META_KEYS`；纯标签集合中「≥8 条且每条带 `_action`」的链接菜单走 `list`。`render.mjs`：`renderDeflist` 在 `order==="sequence"` 时出 `.ranked` 序号；`renderRun` 把「唯一取值在身份列」的行出为 `<tr class="row-group">` 跨列小节标题；`.fact/.prose` 加 `max-width:74ch`（hero/cards 重置）；`renderList` 短标签按条数分栏 `cols2/3/4`。模型侧：36kr feed `_detail` 拆成 `_source/_author/_datetime`；`home.hot` 加 `_rel.order:"sequence"`；删 `aws region-egress._title`（抄自列头的重复标题）。
 - **验证**：pipeline `--shots` ⇒ HTML 42/42 + MD 42/42 保真、48 模型通过、七套自测通过、视觉自查 42/42 干净、证据一致性通过。
 
+
+## F-078 保真度量只测"模型↔渲染"，不测"模型↔抓取"（轮 37b 发现，待修）
+- **现象**：`aliyun-com/product-ecs` 的实例卡价格在模型里是 `1238` / `1385`，而**抓取的价格行**写的是 `￥1438.68/1年` / `￥3459.90/1年`（corpus 里 `1438.68` 出现 42 次、`3459.90` 34 次）。**保真度始终 1.00**，因为度量只校验"模型事实是否出现在渲染里"（模型↔渲染自洽），**从不校验"模型事实是否来自抓取"**。
+- **影响**：F-025（抓取即真相）目前只靠**流程纪律**保证，**没有门禁**。这意味着任何一轮策展写错数字/文案，只要渲染一致就全绿——**证明强度上的真实漏洞**。
+- **候选修法（下一轮）**：新增**采集↔模型一致性审计**（`m1/eval/capture-integrity.mjs`）——对每个策展模型的**每个事实值**（text/num/money/date/list 元素），在 `corpus/<page>/dom.html|nodes.json` 中做规范化查找；不命中 ⇒ 输出为**待核清单**（允许白名单：截图派生资产、聚合/推导值如分期文案，且每条必须写明理由）。接入 pipeline 作为第 9 道门禁。
+- **本轮已修**：该卡价格按 corpus 价格行改正（99 / 1438.68 / 3459.9），源站原文（`1年/1年起`、官网折扣价）记入 `_intent`。
